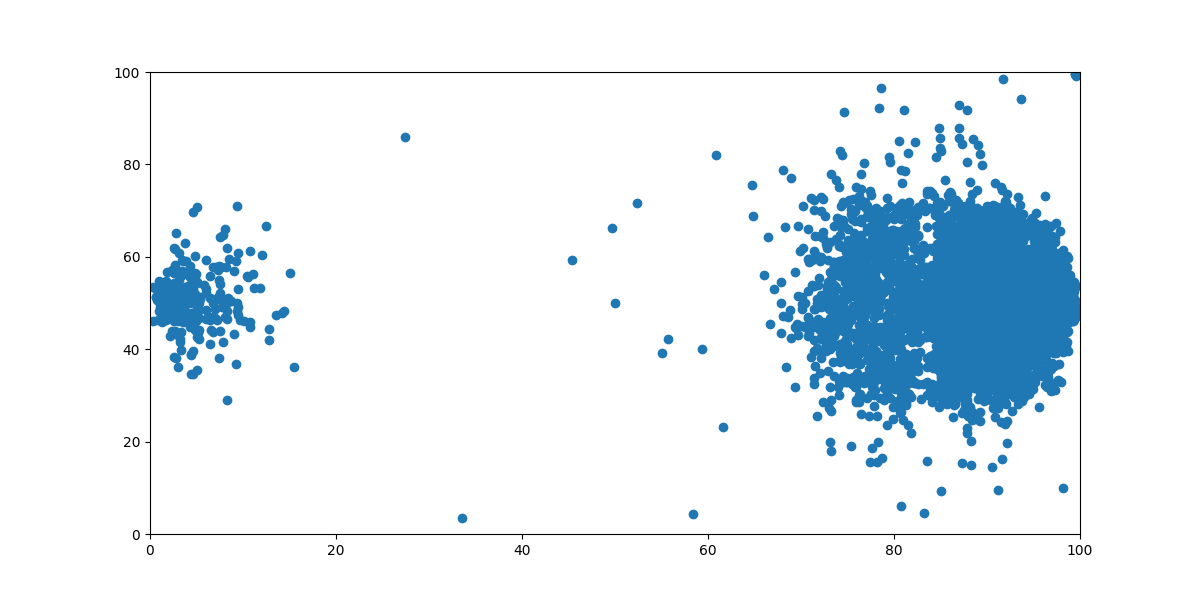
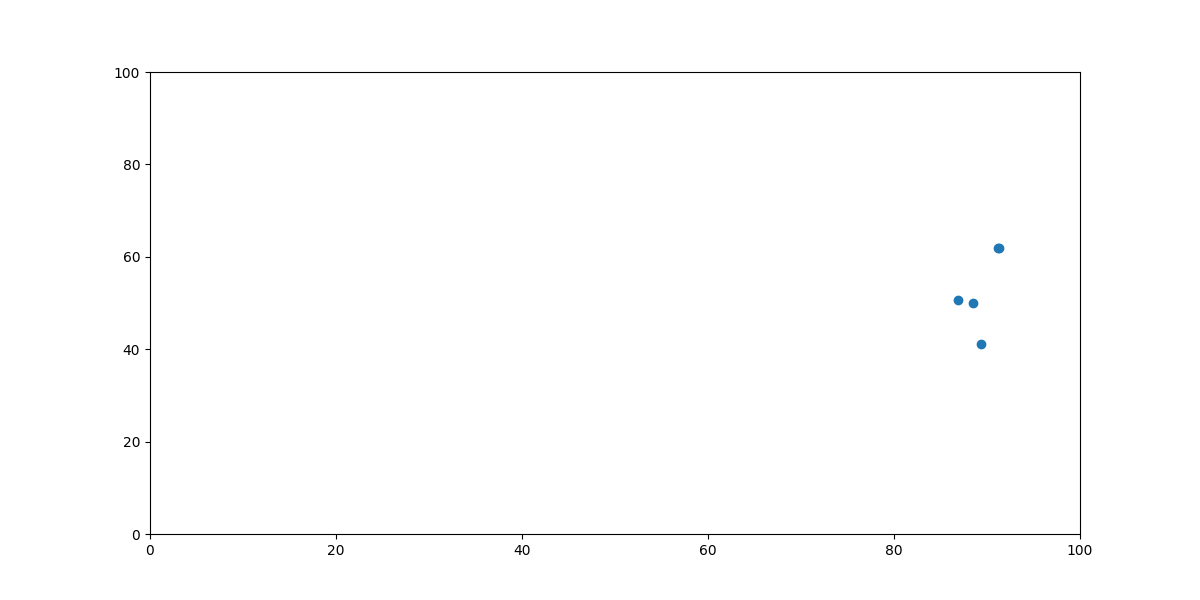
2019-07-30

diff --git a/td_three_prediction_two_tower_lstm_v_correct_dir/naive_analysis/explore_targeted_data.py b/td_three_prediction_two_tower_lstm_v_correct_dir/naive_analysis/explore_targeted_data.py
@@ -48,10 +48,11 @@ def gather_score_data(directory, data_path, suc_shot_action_all):
         event = events[j]
         action = str(event.get('action'))
         if action == 'goal':
-            x_ = float(events[j - 1].get('x'))
-            y_ = float(events[j - 1].get('y'))
-            print str(events[j - 1].get('action'))
-            suc_shot_action_all.append([x_, y_])
+            if 'own' not in events[j - 1].get('action'):
+                x_ = float(events[j - 1].get('x'))
+                y_ = float(events[j - 1].get('y'))
+                print str(events[j - 1].get('action'))
+                suc_shot_action_all.append([x_, y_])
 
     return suc_shot_action_all
 
@@ -195,8 +196,8 @@ if __name__ == '__main__':
     # find_events_with_idx()
     # check_soccer_data()
     # data_path = "/cs/oschulte/Galen/Hockey-data-entire/Hockey-Match-All-data/"
-    data_path = "/cs/oschulte/soccer-data/sequences_append_goal/"
-    # data_path = '/Users/liu/Desktop/soccer-data-sample/sequences_append_goal/'
+    # data_path = "/cs/oschulte/soccer-data/sequences_append_goal/"
+    data_path = '/Users/liu/Desktop/soccer-data-sample/sequences_append_goal/'
     dir_all = os.listdir(data_path)
     #
     suc_shot_action_all = []
@@ -204,4 +205,6 @@ if __name__ == '__main__':
         gather_score_data(dir, data_path, suc_shot_action_all)
         # find_soccer_target_data(dir, data_path, print_latex=True)
     plot_shot_scatter(np.asarray(suc_shot_action_all))
-    print suc_shot_action_all
+    # print suc_shot_action_all
+
+    print np.asarray(suc_shot_action_all).mean(axis=0)
